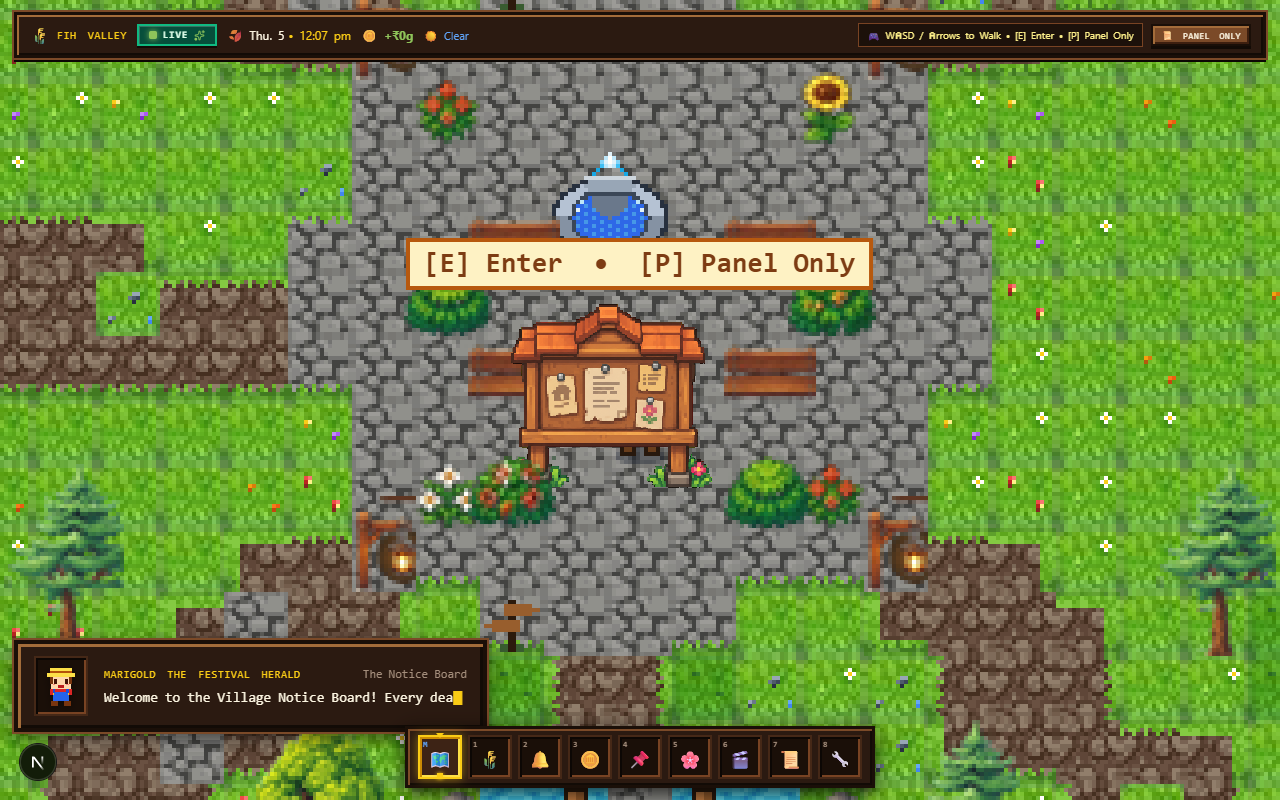
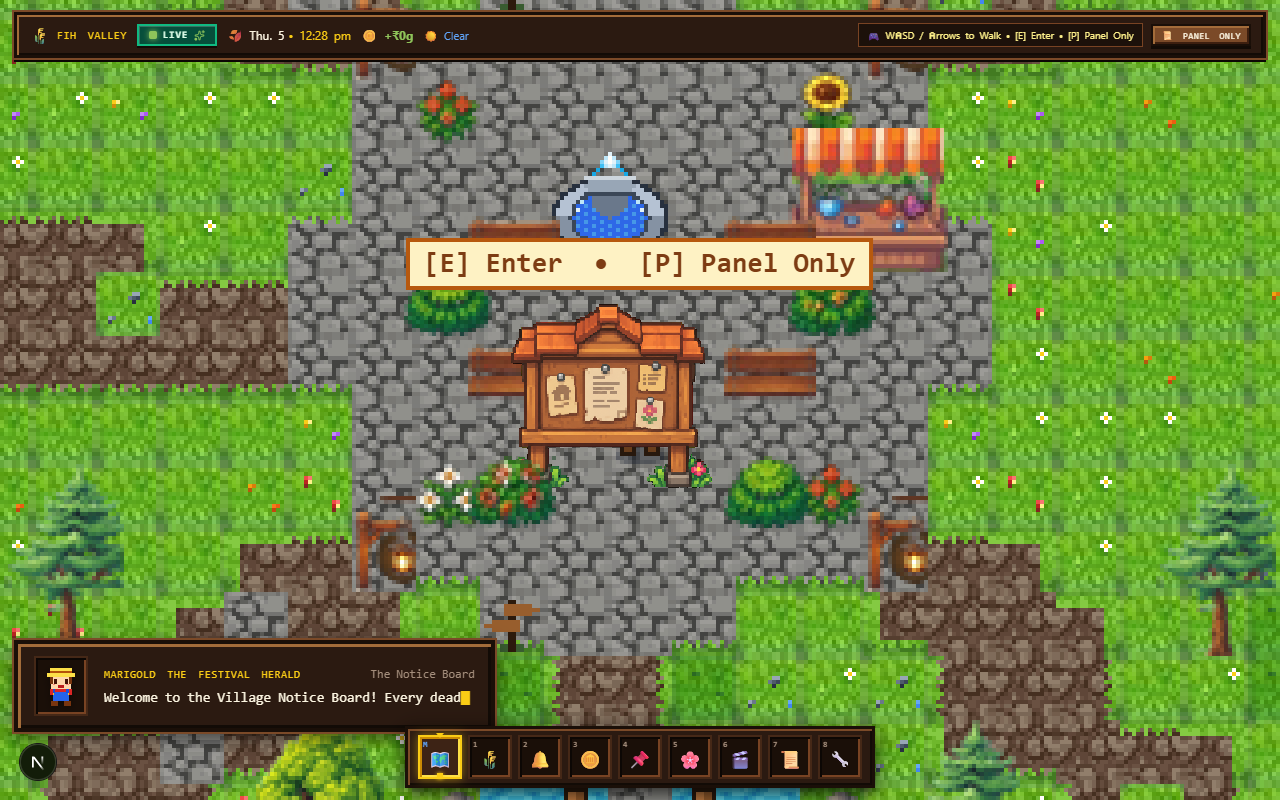
feat(world): integrate optional village buildings (inn, lavender cottage, market stall) alongside all nine core locations

Changed region(s): [[0.5938, 0.1562, 0.75, 0.3438], [0.3438, 0.7812, 0.4062, 0.9062], [0.2812, 0.8125, 0.3125, 0.8438]]

diff --git a/components/world/PixelWorldCanvas.jsx b/components/world/PixelWorldCanvas.jsx
@@ -394,6 +394,8 @@ export function generateForestTrees() {
     { minX: 14, maxX: 18, minY: 20, maxY: 24 }, // Toolshed
     { minX: 29, maxX: 35, minY: 39, maxY: 44 }, // Pond
     { minX: 46, maxX: 50, minY: 22, maxY: 26 }, // Sky Post
+    { minX: 22, maxX: 27, minY: 13, maxY: 18 }, // Optional: The Whispering Pines Inn
+    { minX: 39, maxX: 44, minY: 13, maxY: 19 }, // Optional: Lavender Artisan Cottage
   ];
 
   function isClearForTree(tx, ty) {
@@ -595,6 +597,21 @@ export function isWalkable(wx, wy) {
     return false;
   }
 
+  // 14. Optional: The Whispering Pines Inn walls (tx: 23..26, ty: 14..16)
+  if (tx >= 23 && tx <= 26 && ty >= 14 && ty <= 16) {
+    return false;
+  }
+
+  // 15. Optional: Lavender Artisan Cottage walls (tx: 39..42, ty: 14..17)
+  if (tx >= 39 && tx <= 42 && ty >= 14 && ty <= 17) {
+    return false;
+  }
+
+  // 16. Optional: Village Market Produce Stall counter (tx: 35..36, ty: 31)
+  if ((tx === 35 || tx === 36) && ty === 31) {
+    return false;
+  }
+
   // 13. Internal woodland tree trunks (outer forest boundary wx < 6*16 || wx > 58*16 is already impassable)
   if (INTERNAL_TREE_TRUNKS.has(`${tx},${ty}`)) {
     return false;
@@ -729,6 +746,11 @@ export default function PixelWorldCanvas({
       flowers_poppy: null,
       flowers_daisy: null,
       flowers_sunflower: null,
+      inn_tavern: null,
+      cottage_lavender: null,
+      market_stall: null,
+      barrel_stack: null,
+      citrus_tree: null,
     },
     loaded: false,
     camera: { x: 32 * 16, y: 33 * 16 }, // Center at Central Plaza Fountain on spawn
@@ -780,6 +802,11 @@ export default function PixelWorldCanvas({
       { key: 'flowers_poppy', src: '/assets/trees/flowers_poppy.png' },
       { key: 'flowers_daisy', src: '/assets/trees/flowers_daisy.png' },
       { key: 'flowers_sunflower', src: '/assets/trees/flowers_sunflower.png' },
+      { key: 'inn_tavern', src: '/assets/buildings/inn_tavern.png' },
+      { key: 'cottage_lavender', src: '/assets/buildings/cottage_lavender.png' },
+      { key: 'market_stall', src: '/assets/props/market_stall.png' },
+      { key: 'barrel_stack', src: '/assets/props/barrel_stack.png' },
+      { key: 'citrus_tree', src: '/assets/props/citrus_tree.png' },
     ];
 
     let count = 0;
@@ -1461,6 +1488,47 @@ export default function PixelWorldCanvas({
           ctx.drawImage(tileset, 6 * TILE_SIZE, 5 * TILE_SIZE, TILE_SIZE, TILE_SIZE, px - TILE_SIZE, py, TILE_SIZE, TILE_SIZE);
           // Circular poppy flowerbed
           ctx.drawImage(tileset, 2 * TILE_SIZE, 0, TILE_SIZE, TILE_SIZE, px + TILE_SIZE, py, TILE_SIZE, TILE_SIZE);
+        },
+      });
+
+      // ── Optional Building 1: The Whispering Pines Inn & Tavern (tx: 25, ty: 17) ──
+      renderables.push({
+        y: 17 * TILE_SIZE,
+        render: () => {
+          const innImg = state.images.inn_tavern;
+          if (innImg) {
+            const bW = 72;
+            const bH = 70;
+            const bX = 25 * TILE_SIZE - bW / 2;
+            const bY = 17 * TILE_SIZE - bH + 2;
+            ctx.drawImage(innImg, bX, bY, bW, bH);
+          }
+        },
+      });
+
+      // ── Optional Building 2: Lavender Artisan Cottage (tx: 41, ty: 18) ──
+      renderables.push({
+        y: 18 * TILE_SIZE,
+        render: () => {
+          const cotImg = state.images.cottage_lavender;
+          if (cotImg) {
+            const bW = 52;
+            const bH = 88;
+            const bX = 41 * TILE_SIZE - bW / 2;
+            const bY = 18 * TILE_SIZE - bH + 2;
+            ctx.drawImage(cotImg, bX, bY, bW, bH);
+          }
+        },
+      });
+
+      // ── Optional Building 3: Village Market Produce Stall (tx: 35..36, ty: 31) ──
+      renderables.push({
+        y: 32 * TILE_SIZE,
+        render: () => {
+          const mImg = state.images.market_stall;
+          if (mImg) {
+            ctx.drawImage(mImg, 35 * TILE_SIZE - 4, 30 * TILE_SIZE - 4, 42, 36);
+          }
         },
       });
 
